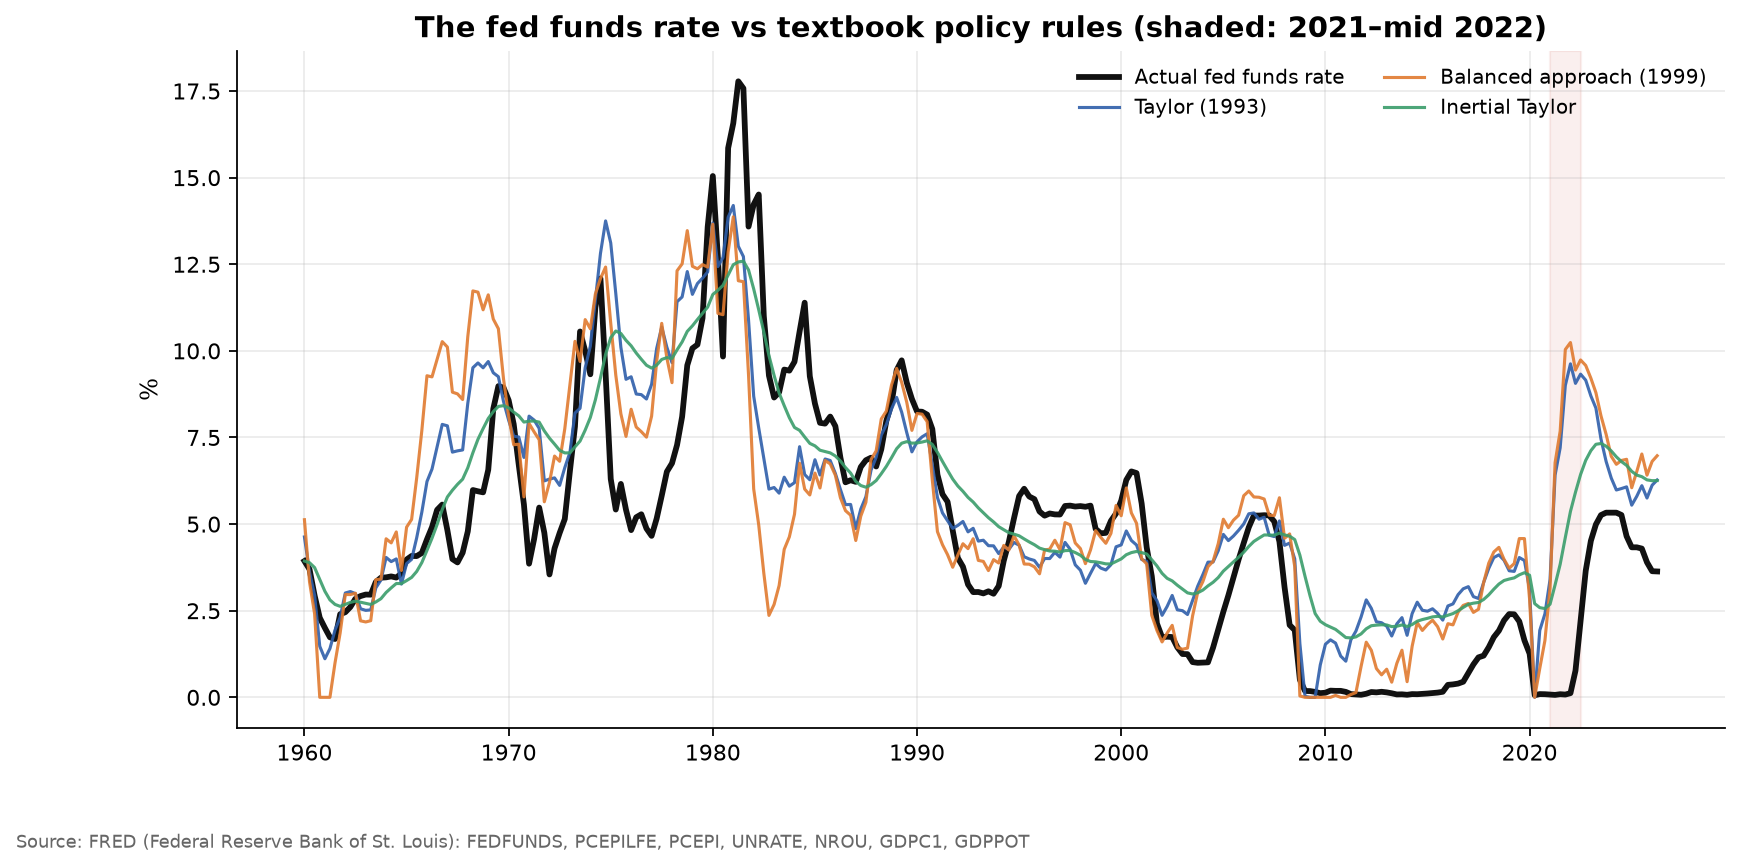
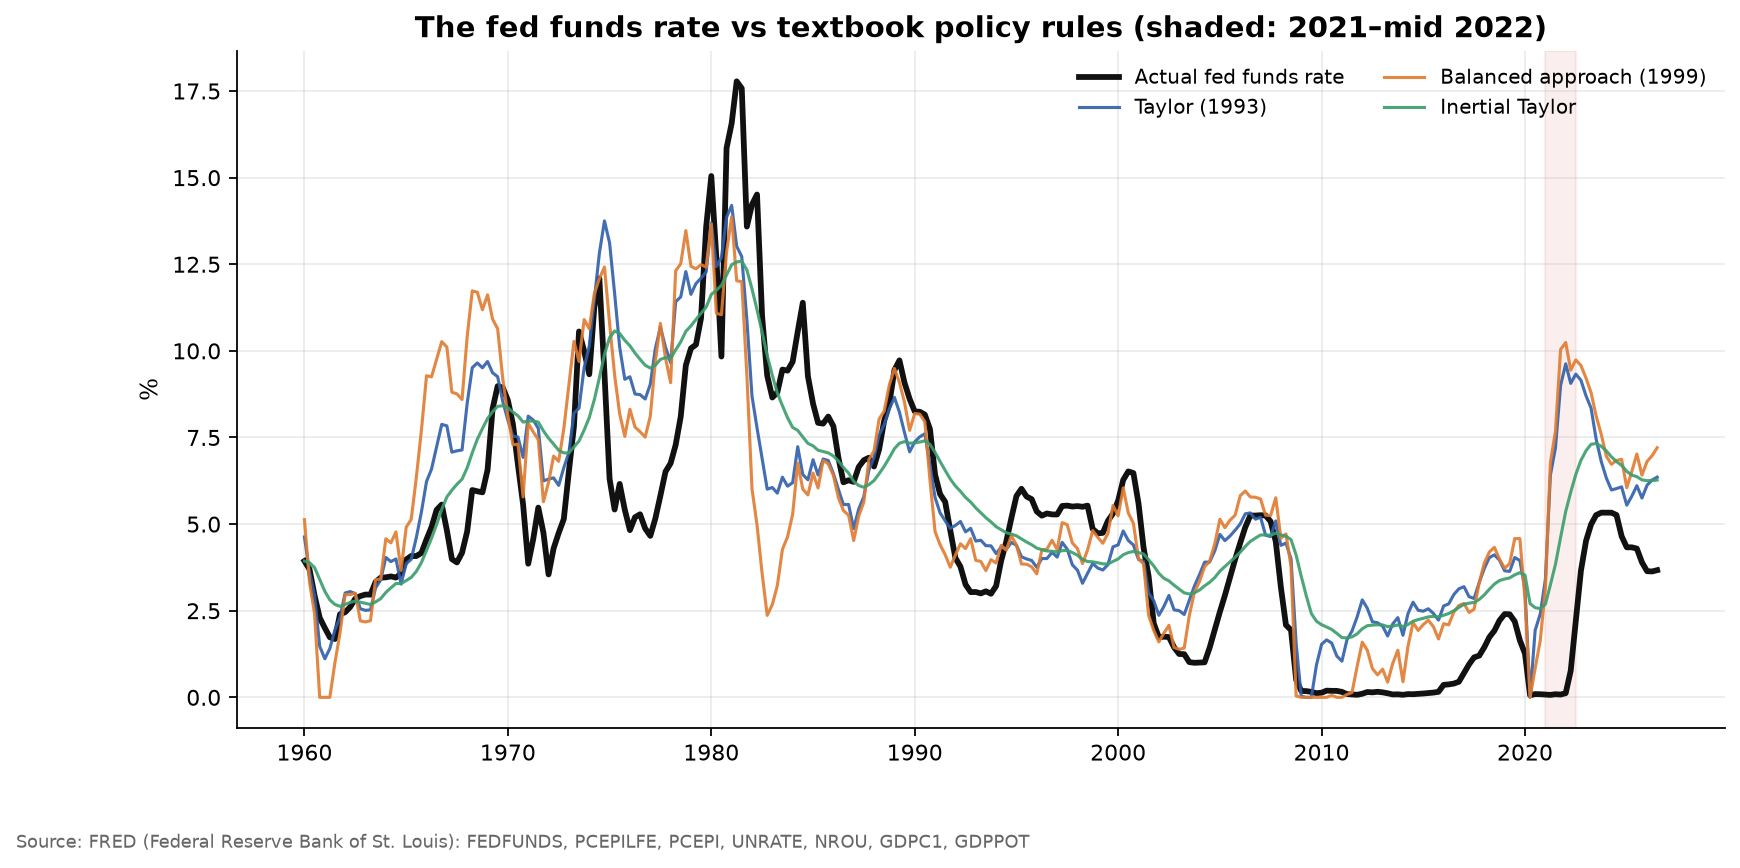
Refresh data and results [skip ci]

diff --git a/README.md b/README.md
@@ -27,7 +27,7 @@ All prescriptions are floored at zero, the effective lower bound. "Quarters late
 
 ## Results
 <!-- RESULTS:START -->
-_Auto-generated by `run.py` on 2026-10-02. Numbers refresh whenever the pipeline re-runs._
+_Auto-generated by `run.py` on 2026-11-02. Numbers refresh whenever the pipeline re-runs._
 
 ### Headline numbers
 

diff --git a/outputs/results.md b/outputs/results.md
@@ -1,4 +1,4 @@
-_Auto-generated by `run.py` on 2026-10-02. Numbers refresh whenever the pipeline re-runs._
+_Auto-generated by `run.py` on 2026-11-02. Numbers refresh whenever the pipeline re-runs._
 
 ### Headline numbers
 
